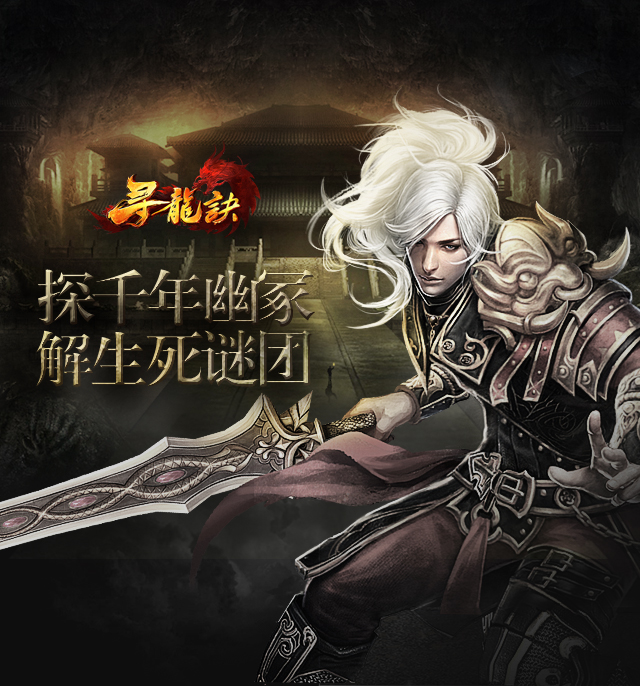
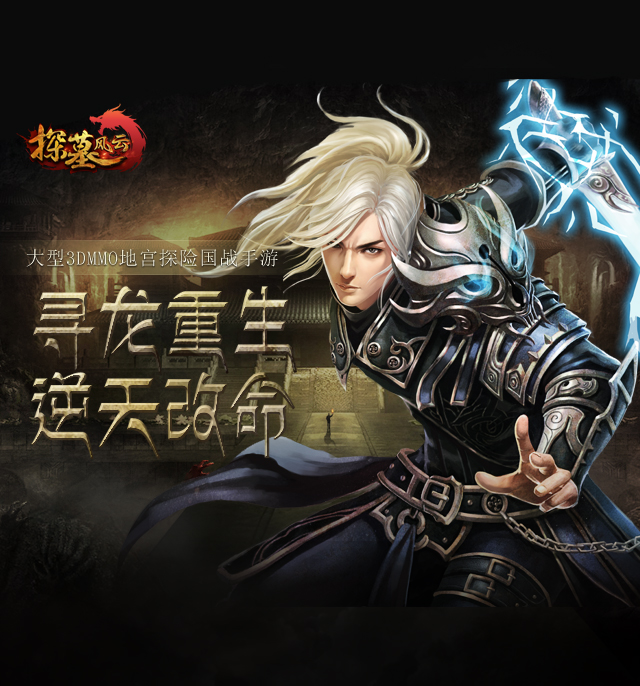
modified detail position

diff --git a/js/homepage.js b/js/homepage.js
@@ -41,7 +41,8 @@ $(function() {
             if (data.post.custom_fields != {}) {
                 // var scrollHeight = document.documentElement.scrollHeight || document.body.scrollHeight;
                 // var scrollWidth = document.documentElement.scrollWidth || document.body.scrollWidth;
-
+ // ios版 没有连接  弹出的是ok
+  // Android  有  错误
                 var $ios = $('div.dl').find('a.ios');
                 console.log("ios" + data.post.custom_fields.href_url);
                 var custom_fields = data.post.custom_fields;
@@ -54,7 +55,7 @@ $(function() {
                     })
                 } else {
                     console.log(custom_fields.intro != undefined);
-                    if (custom_fields.intro != undefined) {
+                    if (custom_fields.intro) {
                         $ios.click(function() {
                             $('div.pop2').css('display', 'block');
                             $('div.pop2').css('background', 'url(img/pop.png) no-repeat 0 0');
@@ -127,7 +128,7 @@ $(function() {
                     });
                     // window.location.href = custom_fields.href_url[0];
                 } else {
-                    if (custom_fields.intro != undefined) {
+                    if (custom_fields.intro!=undefined) {
                         $andr.click(function() {
                             $('div.pop2').css('display', 'block');
                             $('div.pop2').css('background', 'url(img/pop.png) no-repeat 0 0');
@@ -135,7 +136,8 @@ $(function() {
                                 'top': '-4px',
                                 'right': '54px'
                             });
-                            $('div.pop2').find('div.info').text('custom_fields.intro[0]');
+                            // 
+                            $('div.pop2').find('div.info').text(custom_fields.intro[0]);
                             // $('div.pop2').css('display', 'block');
                             $('div.pop2').css('display', 'block');
                             var d = document;
@@ -158,7 +160,7 @@ $(function() {
                                 'top': '-4px',
                                 'right': '54px'
                             });
-                            $('div.pop2').find('div.info').text('敬请期待！');
+                            $('div.pop2').find('div.info').text('期待！');
                             // $('div.pop2').css('display', 'block');
                             $('div.pop2').css('display', 'block');
                             var d = document;

diff --git a/xlj.html b/xlj.html
@@ -4,7 +4,7 @@
 <head>
     <meta charset="UTF-8">
     <meta name="viewport" content="width=640,target-densitydpi=320, minimum-scale=0.5, maximum-scale=2,user-scalable=0">
-    <title>寻龙诀手机超首页</title>
+    <title>探墓风云 手机官网</title>
     <link rel="shortcut icon" href="favicon.ico" type="image/x-icon">
     <link rel="stylesheet" type="text/css" href="css/style.css">
     <link rel="stylesheet" type="text/css" href="css/xlj.css">
@@ -81,16 +81,16 @@
             </ul>
             <div class="gameInfo">
                 <p>
-                    《寻龙诀黄金帝国》是一款生存探宝3D手游，玩家化身 风水门派的后裔收集龙秘术残页。游戏以炫目的打斗带 动探宝节奏，并引入铜鼎、古镜等上古秘宝，辅之以符 篆、独门技能、寻宝玩法，让一场轰轰烈烈的探宝之旅 更加异彩纷呈！
+                    《探墓风云》是一款大型3DMMO地宫探险国战手游，玩家将从三国曹操墓开始，以探墓者的身份深入地宫古墓，展开一段惊心动魄悬念迭生的探险之旅。跨越一千多年的地下世界，到底隐藏着怎样的未知？摸金校尉的后人能否找到古墓中的秘宝，重定三界？进入游戏寻找答案！
                 </p>
             </div>
         </div>
         <div class="foot_btn">
             <a class="btn" href="index.html"><span>返回首页</span></a>
-            <div class="foot">
+                  <div class="foot">
                 <p>互爱互动（北京）科技有限公司版权所有</p>
-                <p>Copyright :copyright: 2012 Hoolai Games. All Rights Reserved</p>
-                <p>京ICP备11034336号-1 网络文化经营许可证-文网文[2011]0744-272号</p>
+                <p>Copyright :copyright: 2015 Hoolai Games. All Rights Reserved </p>
+                <p>京ICP备11034336号-5 网络文化经营许可证-文网文[2011]0744-272号 </p>
                 <p>京公网安备11010502022348</p>
             </div>
         </div>

diff --git a/index.html b/index.html
@@ -4,12 +4,13 @@
 <head>
     <meta charset="UTF-8">
     <meta name="viewport" content="width=640,target-densitydpi=320, minimum-scale=0.5, maximum-scale=2,user-scalable=0">
-    <title>寻龙诀手机官网</title>
+    <title>探墓风云 手机官网</title>
     <link rel="shortcut icon" href="favicon.ico" type="image/x-icon">
     <link rel="stylesheet" type="text/css" href="css/style.css">
     <link rel="stylesheet" type="text/css" href="css/homepage.css">
     <script type="text/javascript" src="js/jquery.min.js"></script>
     <script type="text/javascript" src="js/homepage.js"></script>
+    <script> var _hmt = _hmt || []; (function() { var hm = document.createElement("script"); hm.src = "//hm.baidu.com/hm.js?7c8bc6f13620be8c6a29c4dc90a0edfc"; var s = document.getElementsByTagName("script")[0]; s.parentNode.insertBefore(hm, s); })(); </script>
 </head>
 
 <body>
@@ -129,8 +130,8 @@
             <a class="btn" href="#"><span>返回顶端</span></a>
             <div class="foot">
                 <p>互爱互动（北京）科技有限公司版权所有</p>
-                <p>Copyright :copyright: 2012 Hoolai Games. All Rights Reserved</p>
-                <p>京ICP备11034336号-1 网络文化经营许可证-文网文[2011]0744-272号</p>
+                <p>Copyright :copyright: 2015 Hoolai Games. All Rights Reserved </p>
+                <p>京ICP备11034336号-5 网络文化经营许可证-文网文[2011]0744-272号 </p>
                 <p>京公网安备11010502022348</p>
             </div>
         </div>

diff --git a/list.html b/list.html
@@ -4,7 +4,7 @@
 <head>
     <meta charset="UTF-8">
     <meta name="viewport" content="width=640,target-densitydpi=320, minimum-scale=0.5, maximum-scale=2,user-scalable=0">
-    <title>寻龙诀手机超首页</title>
+    <title>探墓风云 手机官网</title>
     <link rel="shortcut icon" href="favicon.ico" type="image/x-icon">
     <link rel="stylesheet" type="text/css" href="css/style.css">
     <link rel="stylesheet" type="text/css" href="css/list.css">
@@ -54,10 +54,10 @@
         </div>
         <div class="foot_btn">
             <a class="btn" href="index.html"><span>返回首页</span></a>
-            <div class="foot">
+                  <div class="foot">
                 <p>互爱互动（北京）科技有限公司版权所有</p>
-                <p>Copyright :copyright: 2012 Hoolai Games. All Rights Reserved</p>
-                <p>京ICP备11034336号-1 网络文化经营许可证-文网文[2011]0744-272号</p>
+                <p>Copyright :copyright: 2015 Hoolai Games. All Rights Reserved </p>
+                <p>京ICP备11034336号-5 网络文化经营许可证-文网文[2011]0744-272号 </p>
                 <p>京公网安备11010502022348</p>
             </div>
         </div>

diff --git a/article.html b/article.html
@@ -3,6 +3,7 @@
 
 <head>
     <meta charset="UTF-8">
+    <title>探墓风云 手机官网</title>
     <meta name="viewport" content="width=640,target-densitydpi=320, minimum-scale=0.5, maximum-scale=2,user-scalable=0">
     <link rel="shortcut icon" href="favicon.ico" type="image/x-icon">
     <link rel="stylesheet" type="text/css" href="css/style.css">
@@ -37,10 +38,10 @@
         </div>
         <div class="foot_btn">
             <a class="btn" href="index.html"><span>返回首页</span></a>
-            <div class="foot">
+                  <div class="foot">
                 <p>互爱互动（北京）科技有限公司版权所有</p>
-                <p>Copyright :copyright: 2012 Hoolai Games. All Rights Reserved</p>
-                <p>京ICP备11034336号-1 网络文化经营许可证-文网文[2011]0744-272号</p>
+                <p>Copyright :copyright: 2015 Hoolai Games. All Rights Reserved </p>
+                <p>京ICP备11034336号-5 网络文化经营许可证-文网文[2011]0744-272号 </p>
                 <p>京公网安备11010502022348</p>
             </div>
         </div>

diff --git a/download.html b/download.html
@@ -44,10 +44,10 @@
         </div>
         <div class="foot_btn">
             <a class="btn" href="index.html"><span>返回首页</span></a>
-            <div class="foot">
+                 <div class="foot">
                 <p>互爱互动（北京）科技有限公司版权所有</p>
-                <p>Copyright :copyright: 2012 Hoolai Games. All Rights Reserved</p>
-                <p>京ICP备11034336号-1 网络文化经营许可证-文网文[2011]0744-272号</p>
+                <p>Copyright :copyright: 2015 Hoolai Games. All Rights Reserved </p>
+                <p>京ICP备11034336号-5 网络文化经营许可证-文网文[2011]0744-272号 </p>
                 <p>京公网安备11010502022348</p>
             </div>
         </div>

diff --git a/css/download.css b/css/download.css
@@ -105,6 +105,6 @@ div.pop2 a.close {
     display: block;
     width: 60px;
     height: 60px;
-    border: 1px solid red;
+    // border: 1px solid red;
     /*background: url(../img/homepage/btn_close.gif);*/
 }
